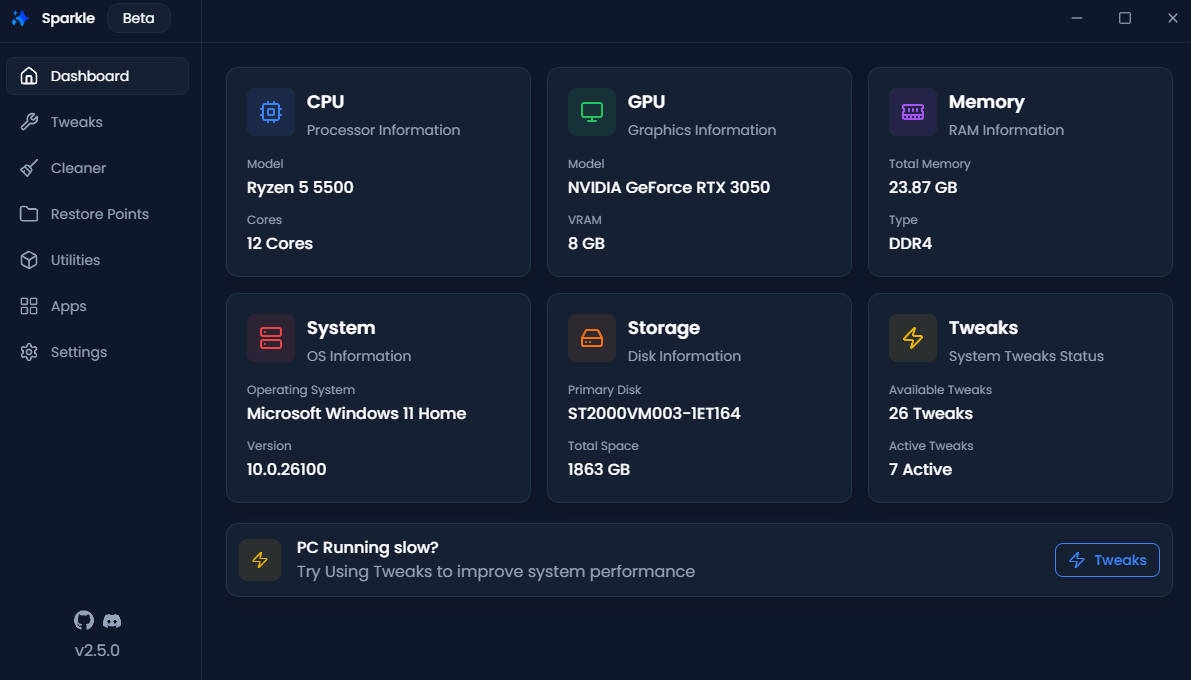
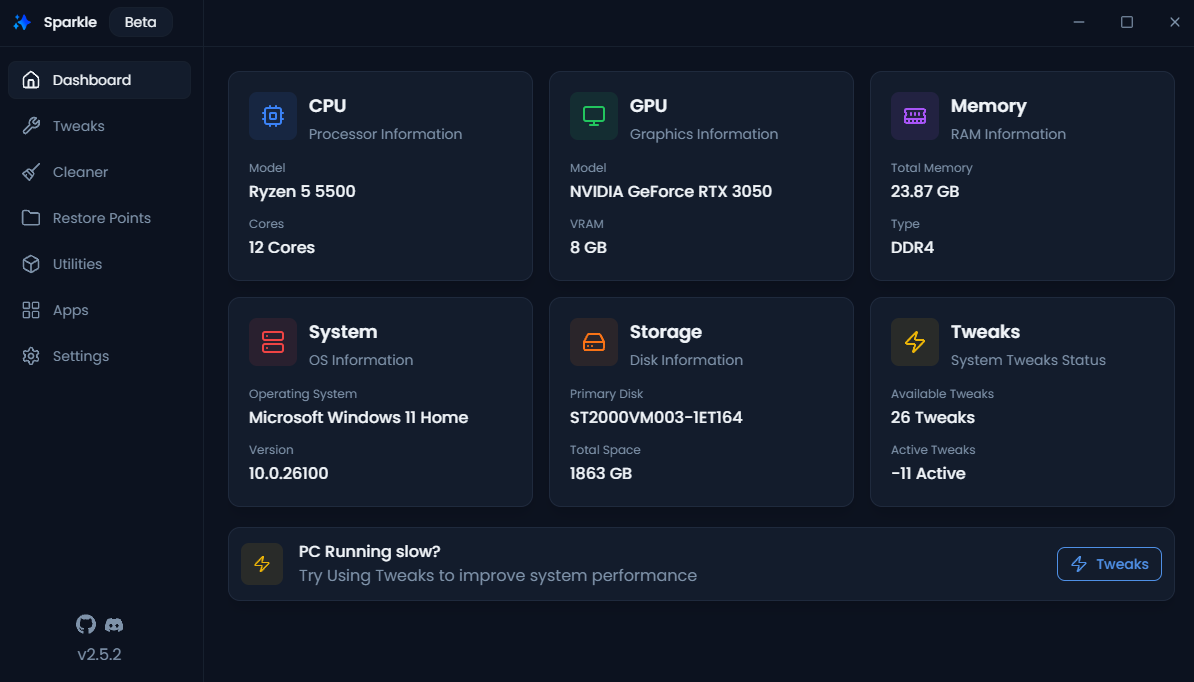
chore: update app image, changes colors to match

diff --git a/README.md b/README.md
@@ -7,10 +7,11 @@
   <p>Ultimate Windows Optimizer</p>
 
   <p>
-    <img alt="React" src="https://img.shields.io/badge/React-000000?style=for-the-badge&logo=react&labelColor=0f172a&color=0f172a">
-    <img alt="Electron" src="https://img.shields.io/badge/Electron-000000?style=for-the-badge&logo=electron&labelColor=0f172a&color=0f172a">
-    <img alt="JavaScript" src="https://img.shields.io/badge/JavaScript-000000?style=for-the-badge&logo=javascript&labelColor=0f172a&color=0f172a">
-    <img alt="PowerShell" src="https://img.shields.io/badge/PowerShell-000000?style=for-the-badge&logo=gnometerminal&labelColor=0f172a&color=0f172a">
+    <img alt="React" src="https://img.shields.io/badge/React-000000?style=for-the-badge&logo=react&labelColor=0c121f&color=0c121f">
+    <img alt="Electron" src="https://img.shields.io/badge/Electron-000000?style=for-the-badge&logo=electron&labelColor=0c121f&color=0c121f">
+    <img alt="JavaScript" src="https://img.shields.io/badge/JavaScript-000000?style=for-the-badge&logo=javascript&labelColor=0c121f&color=0c121f">
+    <img alt="PowerShell" src="https://img.shields.io/badge/PowerShell-000000?style=for-the-badge&logo=gnometerminal&labelColor=0c121f&color=0c121f">
+    <img alt="GitHub Downloads (all assets, latest release)" src="https://img.shields.io/github/downloads/parcoil/sparkle/latest/total?style=for-the-badge&label=Total%20Downloads&labelColor=0c121f&color=0c121f">
   </p>
 
 <a href="https://github.com/Parcoil/Sparkle/releases/latest">Download Latest</a>
